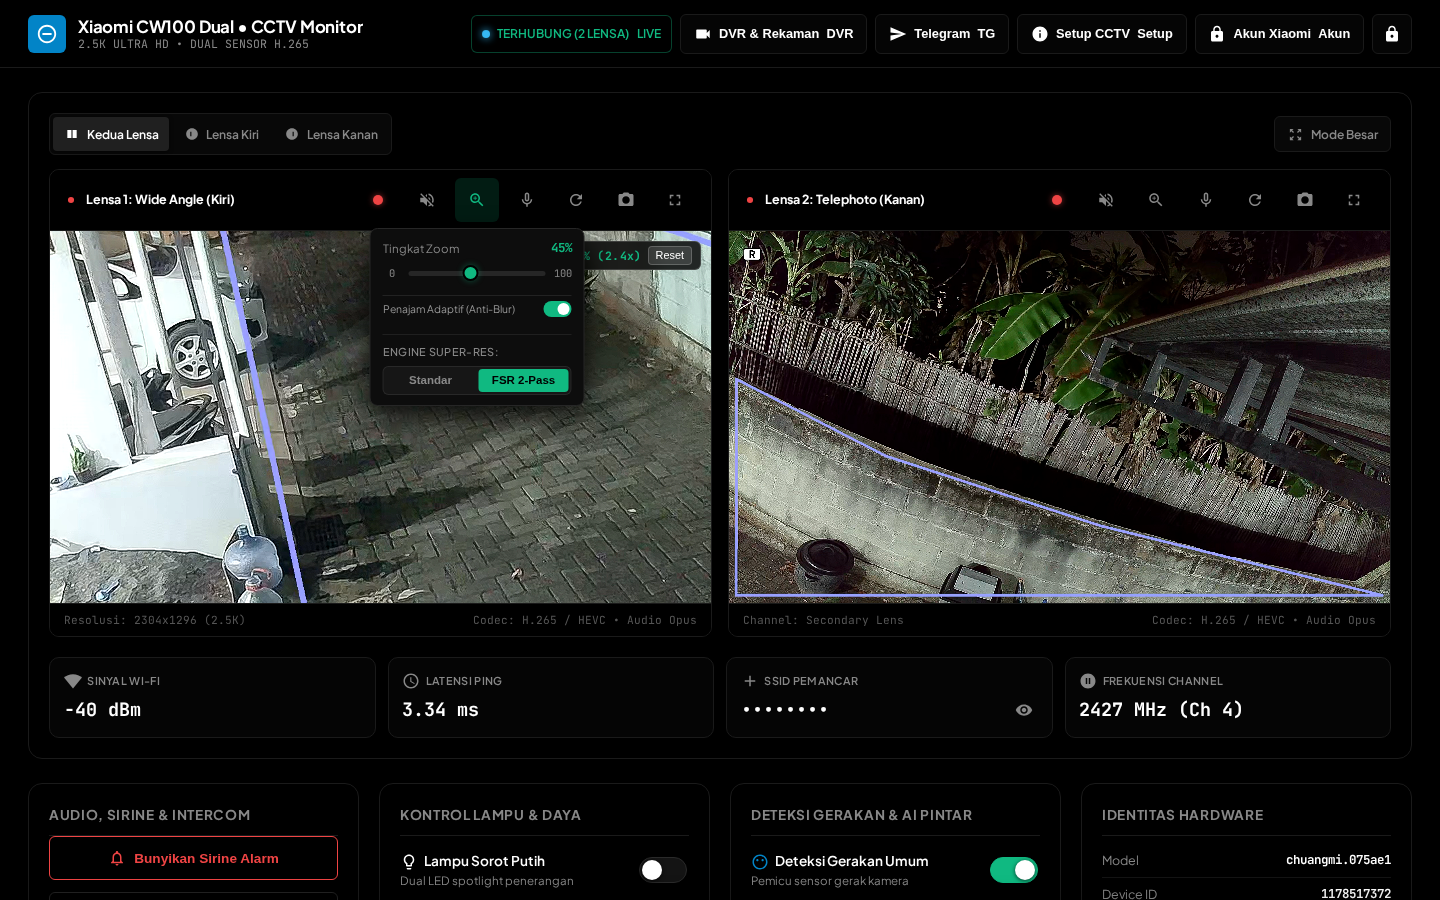
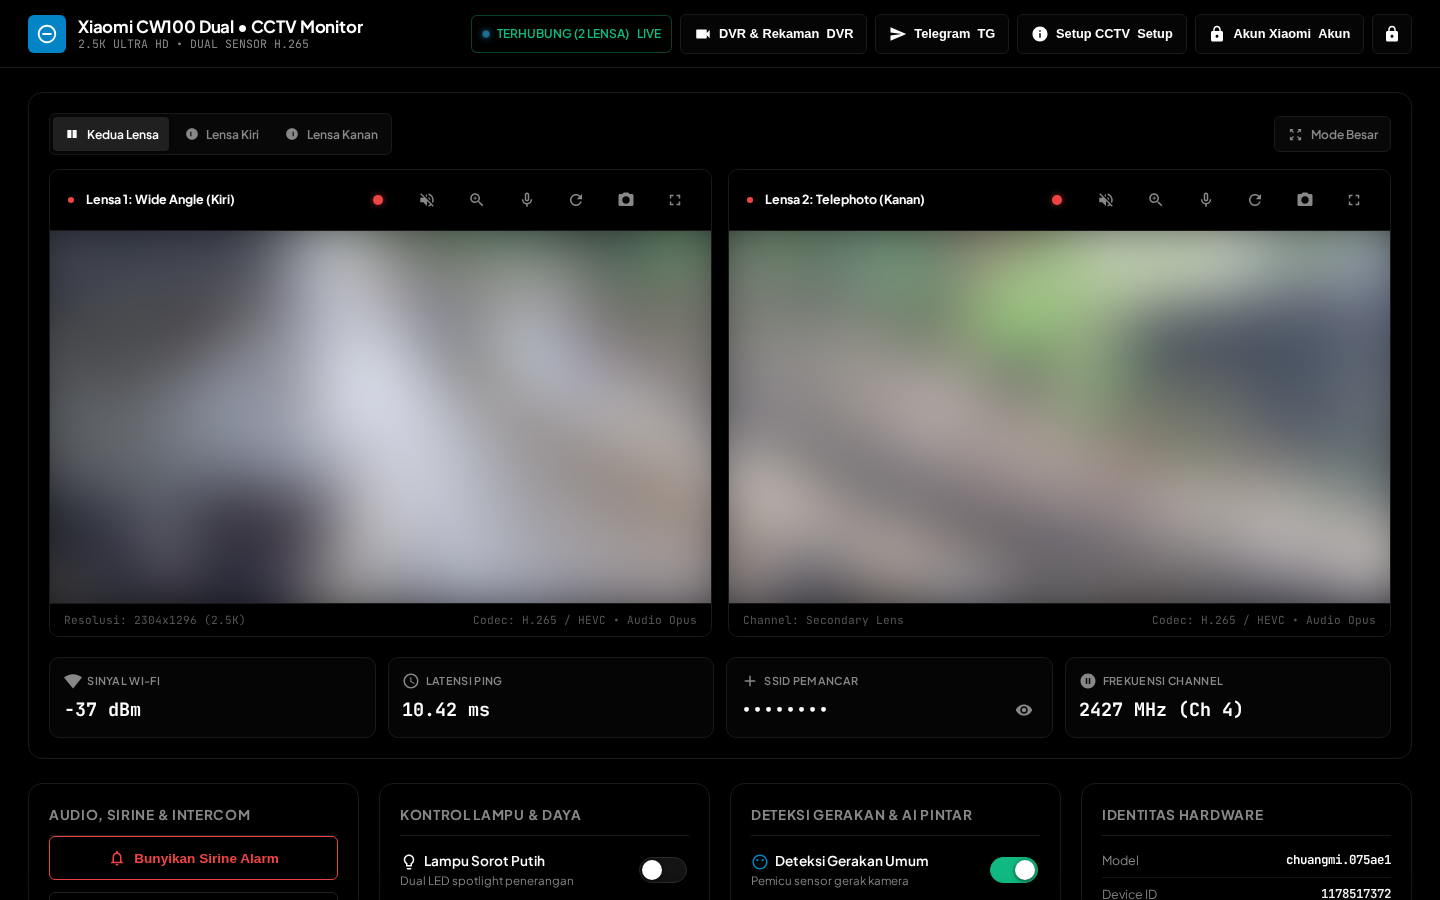
fix: restore WebRTC priority for smooth streaming, release P2P sessions to prevent device limit, and blur preview for privacy

diff --git a/public/index.html b/public/index.html
@@ -8,7 +8,7 @@
   <link rel="preconnect" href="https://fonts.gstatic.com" crossorigin>
   <link href="https://fonts.googleapis.com/css2?family=Plus+Jakarta+Sans:wght@400;500;600;700&family=JetBrains+Mono:wght@400;500;600;700&display=swap" rel="stylesheet">
   <script src="/fsr-upscaler.js?v=20261030_05"></script>
-  <script type="module" src="/video-rtc.js?v=20261030_06"></script>
+  <script type="module" src="/video-rtc.js?v=20261031_01"></script>
   <style>
     :root {
       --bg: #000000;
@@ -2323,7 +2323,7 @@
               </div>
             </div>
             <div class="video-frame-container" id="containerCamLeft">
-              <video-rtc id="camLeft" background></video-rtc>
+              <video-rtc id="camLeft"></video-rtc>
               <canvas class="fsr-overlay-canvas" id="fsrCanvas_camLeft"></canvas>
               <div class="video-zoom-overlay" id="zoomOverlay_camLeft">
                 <span class="zoom-val" id="zoomVal_camLeft">1.0x</span>
@@ -2402,7 +2402,7 @@
               </div>
             </div>
             <div class="video-frame-container" id="containerCamRight">
-              <video-rtc id="camRight" background></video-rtc>
+              <video-rtc id="camRight"></video-rtc>
               <canvas class="fsr-overlay-canvas" id="fsrCanvas_camRight"></canvas>
               <div class="video-zoom-overlay" id="zoomOverlay_camRight">
                 <span class="zoom-val" id="zoomVal_camRight">1.0x</span>
@@ -3230,6 +3230,8 @@
       const btnBoth = document.getElementById('btnViewBoth');
       const btnLeft = document.getElementById('btnViewLeft');
       const btnRight = document.getElementById('btnViewRight');
+      const camLeft = document.getElementById('camLeft');
+      const camRight = document.getElementById('camRight');
 
       if (btnBoth) btnBoth.classList.toggle('active', mode === 'both');
       if (btnLeft) btnLeft.classList.toggle('active', mode === 'left');
@@ -3238,12 +3240,18 @@
       if (mode === 'both') {
         if (leftBox) { leftBox.style.display = ''; leftBox.classList.remove('is-single-lens'); }
         if (rightBox) { rightBox.style.display = ''; rightBox.classList.remove('is-single-lens'); }
+        if (camLeft && typeof camLeft.onconnect === 'function') camLeft.onconnect();
+        if (camRight && typeof camRight.onconnect === 'function') camRight.onconnect();
       } else if (mode === 'left') {
         if (leftBox) { leftBox.style.display = ''; leftBox.classList.add('is-single-lens'); }
         if (rightBox) { rightBox.style.display = 'none'; rightBox.classList.remove('is-single-lens'); }
+        if (camLeft && typeof camLeft.onconnect === 'function') camLeft.onconnect();
+        if (camRight && typeof camRight.ondisconnect === 'function') camRight.ondisconnect();
       } else if (mode === 'right') {
         if (leftBox) { leftBox.style.display = 'none'; leftBox.classList.remove('is-single-lens'); }
         if (rightBox) { rightBox.style.display = ''; rightBox.classList.add('is-single-lens'); }
+        if (camLeft && typeof camLeft.ondisconnect === 'function') camLeft.ondisconnect();
+        if (camRight && typeof camRight.onconnect === 'function') camRight.onconnect();
       }
       log(`Tampilan lensa diubah ke: ${mode === 'both' ? 'Kedua Lensa' : (mode === 'left' ? 'Lensa Kiri' : 'Lensa Kanan')}`);
     }
@@ -5081,9 +5089,22 @@
     startDashboardPolling();
 
     document.addEventListener('visibilitychange', () => {
+      const camLeft = document.getElementById('camLeft');
+      const camRight = document.getElementById('camRight');
+
       if (document.hidden) {
         stopDashboardPolling();
+        // Immediately disconnect live streams to free camera hardware P2P sessions for Xiaomi mobile app
+        if (camLeft && typeof camLeft.ondisconnect === 'function') camLeft.ondisconnect();
+        if (camRight && typeof camRight.ondisconnect === 'function') camRight.ondisconnect();
       } else {
+        // Reconnect active streams
+        if (currentLensView === 'both' || currentLensView === 'left') {
+          if (camLeft && typeof camLeft.onconnect === 'function') camLeft.onconnect();
+        }
+        if (currentLensView === 'both' || currentLensView === 'right') {
+          if (camRight && typeof camRight.onconnect === 'function') camRight.onconnect();
+        }
         fetchStatus();
         fetchRecordStatus();
         pingLoop();

diff --git a/public/video-rtc.js b/public/video-rtc.js
@@ -378,28 +378,17 @@ export class VideoRTC extends HTMLElement {
 
         const modes = [];
         const hasMediaSource = ('MediaSource' in window || 'ManagedMediaSource' in window);
-        const MS = window.MediaSource || window.ManagedMediaSource;
-        const supportsH265Mse = Boolean(hasMediaSource && MS && (
-            (typeof MS.isTypeSupported === 'function') && (
-                MS.isTypeSupported('video/mp4; codecs="hvc1.1.6.L153.B0"') ||
-                MS.isTypeSupported('video/mp4; codecs="hev1.1.6.L153.B0"') ||
-                MS.isTypeSupported('video/mp4; codecs="hvc1.1.6.L93.B0"')
-            )
-        ));
 
-        const preferH265Mse = supportsH265Mse && this.mode.includes('mse');
-
-        if (preferH265Mse) {
-            modes.push('mse');
-            this.onmse();
-            this.onmessage['mse_fallback'] = msg => {
-                if (msg.type === 'error' && this.mode.includes('webrtc') && 'RTCPeerConnection' in window && this.pcState === WebSocket.CLOSED) {
-                    this.onwebrtc();
-                }
-            };
-        } else if (this.mode.includes('webrtc') && 'RTCPeerConnection' in window) {
+        if (this.mode.includes('webrtc') && 'RTCPeerConnection' in window) {
             modes.push('webrtc');
             this.onwebrtc();
+            if (this.mode.includes('mse') && hasMediaSource) {
+                this.onmessage['webrtc_fallback'] = msg => {
+                    if (msg.type === 'error' && msg.value && msg.value.includes('webrtc') && this.pcState === WebSocket.CLOSED) {
+                        this.onmse();
+                    }
+                };
+            }
         } else if (this.mode.includes('mse') && hasMediaSource) {
             modes.push('mse');
             this.onmse();
@@ -507,7 +496,14 @@ export class VideoRTC extends HTMLElement {
                             this.video.currentTime = start;
                         }
                         const gap = end - this.video.currentTime;
-                        this.video.playbackRate = gap > 0.1 ? gap : 0.1;
+                        if (gap > 2.0) {
+                            this.video.currentTime = end - 0.1;
+                            this.video.playbackRate = 1.0;
+                        } else if (gap > 0.4) {
+                            this.video.playbackRate = 1.15;
+                        } else {
+                            this.video.playbackRate = 1.0;
+                        }
                         // console.debug('VideoRTC.buffered', gap, this.video.playbackRate, this.video.readyState);
                     }
                 } catch (e) {

diff --git a/CHANGELOG.md b/CHANGELOG.md
@@ -5,6 +5,15 @@ All notable changes to this project will be documented in this file.
 The format is based on [Keep a Changelog](https://keepachangelog.com/en/1.0.0/),
 and this project adheres to [Semantic Versioning](https://semver.org/spec/v2.0.0.html).
 
+## [0.1.2] - 2026-10-31
+
+### Fixed
+- Streaming stability on MS Edge and Windows browsers: Restored WebRTC as primary transport, eliminating the MSE slow-motion rubber-banding playback loop (`playbackRate < 1.0`).
+- MSE buffer synchronization: Replaced flawed fractional playback rate with stable 1.0x real-time playback and discrete live-edge jump for low-latency catch-up.
+- Xiaomi Mi Home app concurrent device limit: Automatically disconnect camera streams when browser tabs are hidden, minimized, or in background, releasing hardware P2P sessions so the mobile Mi Home app can connect without hitting device concurrency caps.
+- Dynamic single-lens session freeing: Disconnected inactive camera channels when switching between single-lens and dual-lens views to minimize active camera sessions.
+- Screenshot privacy: Applied smooth visual blur to camera video frames in documentation screenshot (`desktop_preview.png`) to protect residential privacy while keeping the UI razor sharp.
+
 ## [0.1.1] - 2026-10-30
 
 ### Changed
